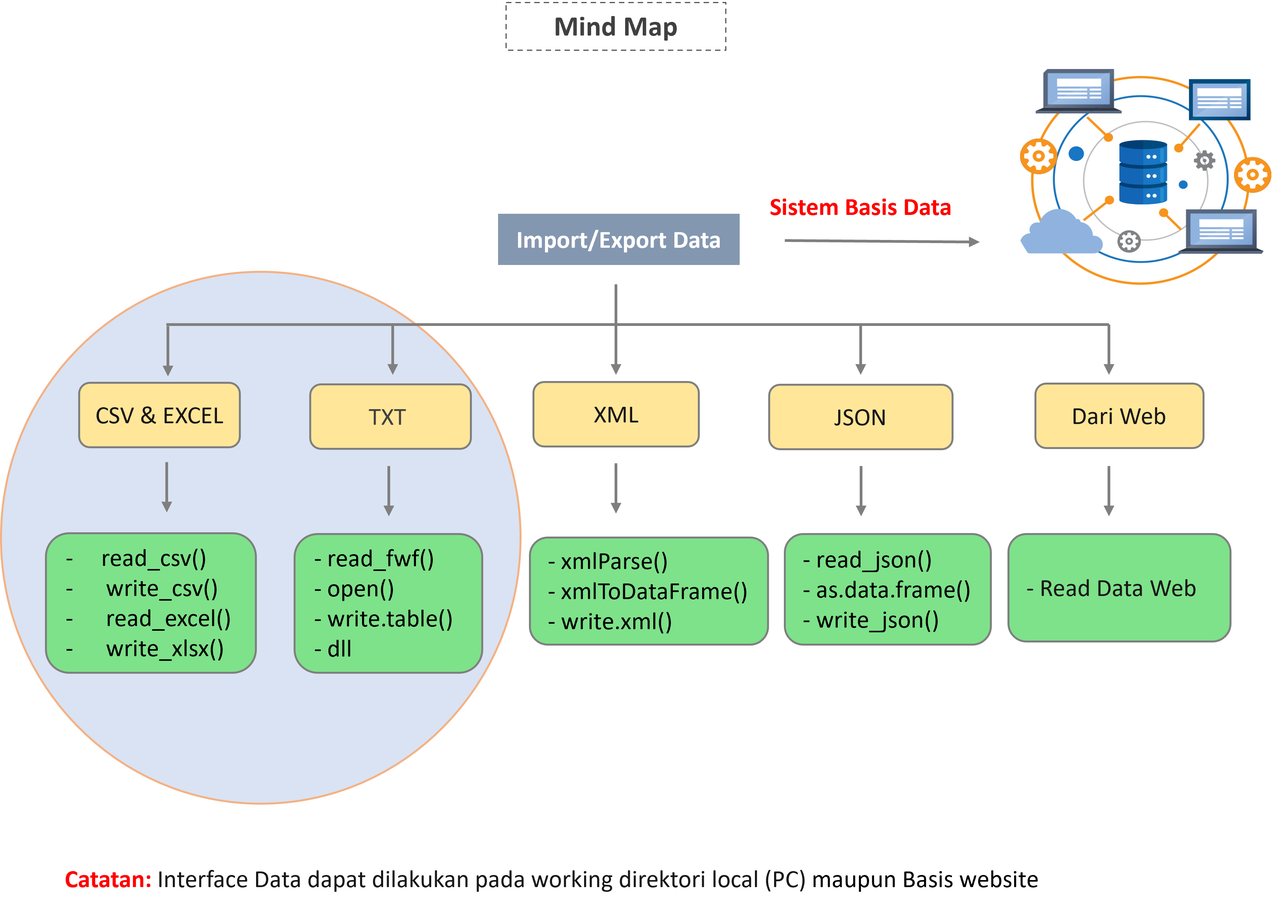
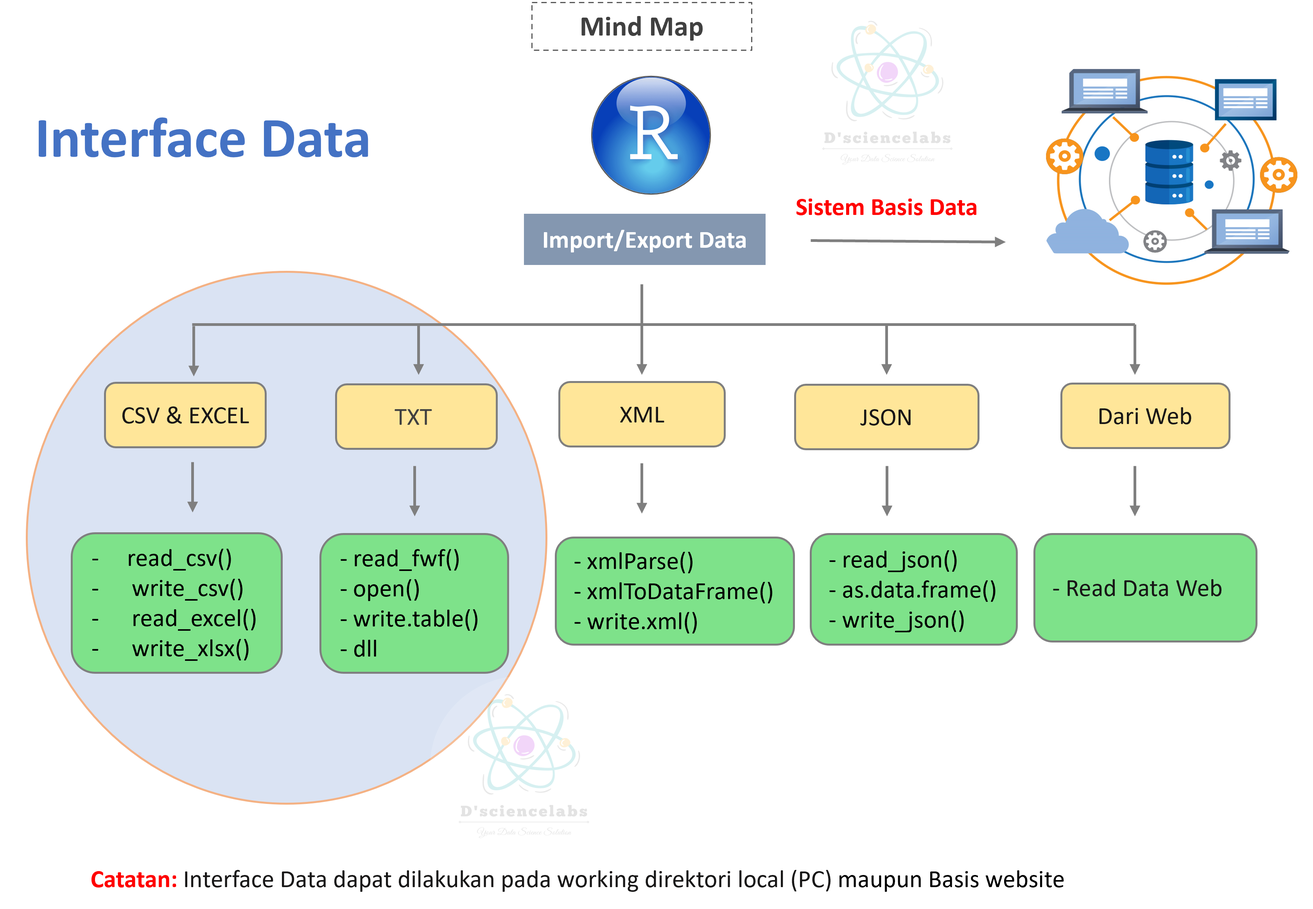
commit Gambar

diff --git a/_book/interface-data.html b/_book/interface-data.html
@@ -4,20 +4,20 @@
 
   <meta charset="utf-8" />
   <meta http-equiv="X-UA-Compatible" content="IE=edge" />
-  <title>Page not found | Algoritma dan Pemrograman R</title>
-  <meta name="description" content="Page not found | Algoritma dan Pemrograman R akan mencakup konsep-konsep dasar dalam pemrograman, pemahaman algoritma, serta pengenalan terhadap bahasa pemrograman R." />
+  <title>Bab 7 Interface Data | Algoritma dan Pemrograman R</title>
+  <meta name="description" content="Bab 7 Interface Data | Algoritma dan Pemrograman R akan mencakup konsep-konsep dasar dalam pemrograman, pemahaman algoritma, serta pengenalan terhadap bahasa pemrograman R." />
   <meta name="generator" content="bookdown 0.34 and GitBook 2.6.7" />
 
-  <meta property="og:title" content="Page not found | Algoritma dan Pemrograman R" />
+  <meta property="og:title" content="Bab 7 Interface Data | Algoritma dan Pemrograman R" />
   <meta property="og:type" content="book" />
   <meta property="og:image" content="/images/Cover_Algoritma_Permrograman.png" />
-  <meta property="og:description" content="Page not found | Algoritma dan Pemrograman R akan mencakup konsep-konsep dasar dalam pemrograman, pemahaman algoritma, serta pengenalan terhadap bahasa pemrograman R." />
+  <meta property="og:description" content="Bab 7 Interface Data | Algoritma dan Pemrograman R akan mencakup konsep-konsep dasar dalam pemrograman, pemahaman algoritma, serta pengenalan terhadap bahasa pemrograman R." />
   <meta name="github-repo" content="dsciencelabs/Algoritma_Pemrograman_R" />
 
   <meta name="twitter:card" content="summary" />
-  <meta name="twitter:title" content="Page not found | Algoritma dan Pemrograman R" />
+  <meta name="twitter:title" content="Bab 7 Interface Data | Algoritma dan Pemrograman R" />
   
-  <meta name="twitter:description" content="Page not found | Algoritma dan Pemrograman R akan mencakup konsep-konsep dasar dalam pemrograman, pemahaman algoritma, serta pengenalan terhadap bahasa pemrograman R." />
+  <meta name="twitter:description" content="Bab 7 Interface Data | Algoritma dan Pemrograman R akan mencakup konsep-konsep dasar dalam pemrograman, pemahaman algoritma, serta pengenalan terhadap bahasa pemrograman R." />
   <meta name="twitter:image" content="/images/Cover_Algoritma_Permrograman.png" />
 
 <meta name="author" content="Bakti Siregar, M.Sc" />
@@ -29,8 +29,8 @@
   <meta name="apple-mobile-web-app-status-bar-style" content="black" />
   
   
-
-
+<link rel="prev" href="struktur-kontrol.html"/>
+<link rel="next" href="referensi.html"/>
 <script src="libs/jquery-3.6.0/jquery-3.6.0.min.js"></script>
 <script src="https://cdn.jsdelivr.net/npm/fuse.js@6.4.6/dist/fuse.min.js"></script>
 <link href="libs/gitbook-2.6.7/css/style.css" rel="stylesheet" />
@@ -300,19 +300,158 @@ code span.wa { color: #60a0b0; font-weight: bold; font-style: italic; } /* Warni
           <div class="page-inner">
 
             <section class="normal" id="section-">
-<div id="page-not-found" class="section level1">
-<h1>Page not found</h1>
-<p>The page you requested cannot be found (perhaps it was moved or renamed).</p>
-<p>You may want to try searching to find the page's new location, or use
-the table of contents to find the page you are looking for.</p>
+<div id="interface-data" class="section level1 hasAnchor" number="7">
+<h1><span class="header-section-number">Bab 7</span> Interface Data<a href="interface-data.html#interface-data" class="anchor-section" aria-label="Anchor link to header"></a></h1>
+<p>Terhubung dengan data adalah hal paling mendasar dalam preses olah data (Data Science). Pada bagian ini akan dibahas bagaimana proses antarmuka data yang paling sederhana dengan menggunakan R. Secara garis besar R dapat membaca data dari file yang disimpan di dalam maupun luar direktorinya. Selain itu, sistem operasi R juga dapat menyimpan dan membaca data dalam berbagai format file seperti csv, excel, txt, rds, xml, json, dll.</p>
+<div class="figure" style="text-align: center"><span style="display:block;" id="fig:if-else"></span>
+<img src="images/Bab7/Interface_Data.png" alt="Pengumpulan Data" width="100%" />
+<p class="caption">
+Gambar 7.1: Pengumpulan Data
+</p>
+</div>
+<p><strong>Catatan:</strong> Data yang digunakan dalam pembelajaran ini, dapat download pada link berikut!</p>
+<ul>
+<li><a href="https://github.com/dsciencelabs/Algoritma_Pemrograman_R/blob/main/Data/Input/input1.csv">input1.csv</a></li>
+<li><a href="https://github.com/dsciencelabs/Algoritma_Pemrograman_R/blob/main/Data/Input/input2.csv">input2.csv</a></li>
+<li><a href="https://github.com/dsciencelabs/Algoritma_Pemrograman_R/blob/main/Data/Input/input3.xls">input3.xls</a></li>
+<li><a href="https://github.com/dsciencelabs/Algoritma_Pemrograman_R/blob/main/Data/Input/input4.xlsx">input4.xlsx</a></li>
+<li><a href="https://github.com/dsciencelabs/Algoritma_Pemrograman_R/blob/main/Data/Input/input5.txt">input5.txt</a></li>
+<li><a href="https://github.com/dsciencelabs/Algoritma_Pemrograman_R/blob/main/Data/Input/input6.Rdmpd">input6.Rdmpd</a></li>
+<li><a href="https://github.com/dsciencelabs/Algoritma_Pemrograman_R/blob/main/Data/Input/input7.rds">input7.rds</a></li>
+<li><a href="https://github.com/dsciencelabs/Algoritma_Pemrograman_R/blob/main/Data/Input/input8.ascii">input8.ascii</a></li>
+<li><a href="https://github.com/dsciencelabs/Algoritma_Pemrograman_R/blob/main/Data/Input/input9.xml">input9.xml</a></li>
+<li><a href="https://github.com/dsciencelabs/Algoritma_Pemrograman_R/blob/main/Data/Input/input10.json">input10.json</a></li>
+</ul>
+<div id="imporekspor-csv" class="section level2 hasAnchor" number="7.1">
+<h2><span class="header-section-number">7.1</span> Impor/Ekspor CSV<a href="interface-data.html#imporekspor-csv" class="anchor-section" aria-label="Anchor link to header"></a></h2>
+<p>Terdapat beberapa cara yang dapat dilakukan untuk impor/expor data dengan R. Berikut ini, diperlihatkan 3 cara yang paling sering digunakan dalam proses antarmuka data.</p>
+<div id="cara-1" class="section level3 hasAnchor" number="7.1.1">
+<h3><span class="header-section-number">7.1.1</span> Cara 1<a href="interface-data.html#cara-1" class="anchor-section" aria-label="Anchor link to header"></a></h3>
+<p>Pertama-tama pastikan direktori kerja anda dalam koneksi yang benar, periksalah dengan menggunakan fungsi <code>getwd()</code>. Kemudian, anda dapat mengatur direktori kerja baru menggunakan fungsi <code>setwd()</code>.</p>
+<div class="sourceCode" id="cb1"><pre class="sourceCode r"><code class="sourceCode r"><span id="cb1-1"><a href="interface-data.html#cb1-1" tabindex="-1"></a><span class="fu">print</span>(<span class="fu">getwd</span>())                                   <span class="co"># cetak direktori kerja R</span></span>
+<span id="cb1-2"><a href="interface-data.html#cb1-2" tabindex="-1"></a><span class="fu">getwd</span>()                                          <span class="co"># cetak direktori kerja R</span></span>
+<span id="cb1-3"><a href="interface-data.html#cb1-3" tabindex="-1"></a><span class="co">#setwd(&quot;C:/Users/Bakti/Desktop/&quot;)                # atur direktori (ini contoh)</span></span>
+<span id="cb1-4"><a href="interface-data.html#cb1-4" tabindex="-1"></a><span class="co">#setwd(&quot;C:\\Users\\Bakti\\Desktop\\&quot;)            # atau dengan cara ini</span></span></code></pre></div>
+<p>Selanjutnya, proses impor data CSV dengan menggunakan fungsi <code>read.csv()</code>.</p>
+<div class="sourceCode" id="cb2"><pre class="sourceCode r"><code class="sourceCode r"><span id="cb2-1"><a href="interface-data.html#cb2-1" tabindex="-1"></a><span class="fu">setwd</span>(<span class="fu">getwd</span>())                                    <span class="co"># setting direktori</span></span>
+<span id="cb2-2"><a href="interface-data.html#cb2-2" tabindex="-1"></a>df1 <span class="ot">&lt;-</span><span class="fu">read.csv</span>(<span class="st">&quot;Data/Input/input1.csv&quot;</span>,<span class="at">sep =</span> <span class="st">&quot;,&quot;</span>) <span class="co"># format pemisah koma </span></span>
+<span id="cb2-3"><a href="interface-data.html#cb2-3" tabindex="-1"></a>df2 <span class="ot">&lt;-</span><span class="fu">read.csv</span>(<span class="st">&quot;Data/Input/input2.csv&quot;</span>,<span class="at">sep =</span> <span class="st">&quot;;&quot;</span>) <span class="co"># format pemisah titik koma</span></span></code></pre></div>
+<p>Jika anda ingin melakukan expor data (simpan) ke direktori yang diinginkan maka dapat dilakukan dengan menggunakan fungsi <code>write.csv()</code> untuk format data dengan pemisah koma <code>(",")</code> dan fungsi <code>write.csv2()</code> untuk format data dengan pemisah semicolon <code>(";")</code>.</p>
+<div class="sourceCode" id="cb3"><pre class="sourceCode r"><code class="sourceCode r"><span id="cb3-1"><a href="interface-data.html#cb3-1" tabindex="-1"></a><span class="fu">write.csv</span>(df1,<span class="st">&quot;Data/Output/output1.csv&quot;</span>, <span class="at">row.names =</span> <span class="cn">FALSE</span>)  </span>
+<span id="cb3-2"><a href="interface-data.html#cb3-2" tabindex="-1"></a><span class="fu">write.csv2</span>(df2,<span class="st">&quot;Data/Output/output2.csv&quot;</span>, <span class="at">row.names =</span> <span class="cn">FALSE</span>)    </span></code></pre></div>
+</div>
+<div id="cara-2" class="section level3 hasAnchor" number="7.1.2">
+<h3><span class="header-section-number">7.1.2</span> Cara 2<a href="interface-data.html#cara-2" class="anchor-section" aria-label="Anchor link to header"></a></h3>
+<p>Bagi anda yang lebih menyukai koneksi direktori secara automatis, cara ini adalah pilihan yang yang lebih bijak dan praktis.</p>
+<div class="sourceCode" id="cb4"><pre class="sourceCode r"><code class="sourceCode r"><span id="cb4-1"><a href="interface-data.html#cb4-1" tabindex="-1"></a><span class="co"># setting direktori</span></span>
+<span id="cb4-2"><a href="interface-data.html#cb4-2" tabindex="-1"></a>(WD <span class="ot">&lt;-</span> <span class="fu">getwd</span>())</span>
+<span id="cb4-3"><a href="interface-data.html#cb4-3" tabindex="-1"></a><span class="cf">if</span> (<span class="sc">!</span><span class="fu">is.null</span>(WD)) <span class="fu">setwd</span>(WD)</span></code></pre></div>
+<div class="sourceCode" id="cb5"><pre class="sourceCode r"><code class="sourceCode r"><span id="cb5-1"><a href="interface-data.html#cb5-1" tabindex="-1"></a><span class="co"># impor data</span></span>
+<span id="cb5-2"><a href="interface-data.html#cb5-2" tabindex="-1"></a>df1 <span class="ot">&lt;-</span> <span class="fu">read.csv</span>(<span class="fu">file.path</span>(WD, <span class="st">&#39;Data/Input&#39;</span>, <span class="st">&#39;input1.csv&#39;</span>))</span>
+<span id="cb5-3"><a href="interface-data.html#cb5-3" tabindex="-1"></a>df2 <span class="ot">&lt;-</span> <span class="fu">read.csv</span>(<span class="fu">file.path</span>(WD, <span class="st">&#39;Data/Input&#39;</span>, <span class="st">&#39;input2.csv&#39;</span>))</span>
+<span id="cb5-4"><a href="interface-data.html#cb5-4" tabindex="-1"></a></span>
+<span id="cb5-5"><a href="interface-data.html#cb5-5" tabindex="-1"></a><span class="co"># ekspor data</span></span>
+<span id="cb5-6"><a href="interface-data.html#cb5-6" tabindex="-1"></a><span class="fu">write.csv</span>(df1, <span class="fu">file.path</span>(WD, <span class="st">&#39;Data/Output&#39;</span>, <span class="st">&#39;output1.csv&#39;</span>),<span class="at">row.names =</span> <span class="cn">FALSE</span>)</span>
+<span id="cb5-7"><a href="interface-data.html#cb5-7" tabindex="-1"></a><span class="fu">write.csv</span>(df2, <span class="fu">file.path</span>(WD, <span class="st">&#39;Data/Output&#39;</span>, <span class="st">&#39;output2.csv&#39;</span>),<span class="at">row.names =</span> <span class="cn">FALSE</span>)</span></code></pre></div>
+</div>
+<div id="cara-3" class="section level3 hasAnchor" number="7.1.3">
+<h3><span class="header-section-number">7.1.3</span> Cara 3<a href="interface-data.html#cara-3" class="anchor-section" aria-label="Anchor link to header"></a></h3>
+<p>Cara ini adalah langkah alternatif bagi anda yang lebih nyaman untuk memilih data yang tersimpan di komputer (PC) tanpa harus melakukan pengaturan direktori terlebih dahulu sebelum melakukan proses impor data.</p>
+<div class="sourceCode" id="cb6"><pre class="sourceCode r"><code class="sourceCode r"><span id="cb6-1"><a href="interface-data.html#cb6-1" tabindex="-1"></a>df3 <span class="ot">&lt;-</span> <span class="fu">read.csv</span>(<span class="fu">file.choose</span>())</span></code></pre></div>
+<p><strong>Catatan:</strong> Proses impor/eskpor data selanjutnya akan dilakukan dengan cara 1 satu saja.</p>
+</div>
+</div>
+<div id="imporekspor-excel" class="section level2 hasAnchor" number="7.2">
+<h2><span class="header-section-number">7.2</span> Impor/Ekspor Excel<a href="interface-data.html#imporekspor-excel" class="anchor-section" aria-label="Anchor link to header"></a></h2>
+<p>Microsoft Excel adalah program spreadsheet yang paling banyak digunakan yang menyimpan data dalam format <code>.xls</code> atau <code>.xlsx</code>. R dapat membaca langsung dari file-file ini menggunakan paket <code>readxl</code>.</p>
+<div class="sourceCode" id="cb7"><pre class="sourceCode r"><code class="sourceCode r"><span id="cb7-1"><a href="interface-data.html#cb7-1" tabindex="-1"></a><span class="co"># install.packages(c(&quot;readxl&quot;, &quot;writexl&quot;))       # install `readxl &amp; writexl` </span></span>
+<span id="cb7-2"><a href="interface-data.html#cb7-2" tabindex="-1"></a>pacman<span class="sc">::</span><span class="fu">p_load</span>(readxl, writexl)                  <span class="co"># load `readxl &amp; writexl`</span></span>
+<span id="cb7-3"><a href="interface-data.html#cb7-3" tabindex="-1"></a></span>
+<span id="cb7-4"><a href="interface-data.html#cb7-4" tabindex="-1"></a><span class="co"># impor data</span></span>
+<span id="cb7-5"><a href="interface-data.html#cb7-5" tabindex="-1"></a>df3<span class="ot">&lt;-</span><span class="fu">read_excel</span>(<span class="st">&quot;Data/Input/input3.xls&quot;</span>)         <span class="co"># impor data xls (97-2003)</span></span>
+<span id="cb7-6"><a href="interface-data.html#cb7-6" tabindex="-1"></a>df4<span class="ot">&lt;-</span><span class="fu">read_excel</span>(<span class="st">&quot;Data/Input/input4.xlsx&quot;</span>,<span class="at">sheet=</span><span class="dv">1</span>)<span class="co"># impor data xlsx (2003-up)</span></span>
+<span id="cb7-7"><a href="interface-data.html#cb7-7" tabindex="-1"></a></span>
+<span id="cb7-8"><a href="interface-data.html#cb7-8" tabindex="-1"></a><span class="co"># ekspor data</span></span>
+<span id="cb7-9"><a href="interface-data.html#cb7-9" tabindex="-1"></a><span class="fu">write_xlsx</span>(df3,<span class="st">&quot;Data/Output/output3.xls&quot;</span>) </span>
+<span id="cb7-10"><a href="interface-data.html#cb7-10" tabindex="-1"></a><span class="fu">write_xlsx</span>(df4,<span class="st">&quot;Data/Output/output4.xlsx&quot;</span>)</span></code></pre></div>
+</div>
+<div id="imporekspor-txt-and-rds" class="section level2 hasAnchor" number="7.3">
+<h2><span class="header-section-number">7.3</span> Impor/Ekspor TXT and RDS<a href="interface-data.html#imporekspor-txt-and-rds" class="anchor-section" aria-label="Anchor link to header"></a></h2>
+<p>Format data paling umum yang sering digunakan untuk impor/ekspor data adalah file CSV dan XLSX. Namun, ukuran file CSV atau XLSX cendrung lebih besar dibanding format yang lainya seperti TXT atau file biner R (RDS). Sehingga, ini akan membutuhkan tambahan waktu pada saat anda melakukan impor/ekspor data. Tips, yang sangat saya rekomendasikan dalam hal ini adalah mengimpor dan ekspor data tersebut dengan format TXT atau binary.</p>
+<div class="sourceCode" id="cb8"><pre class="sourceCode r"><code class="sourceCode r"><span id="cb8-1"><a href="interface-data.html#cb8-1" tabindex="-1"></a><span class="co"># impor data</span></span>
+<span id="cb8-2"><a href="interface-data.html#cb8-2" tabindex="-1"></a>df5 <span class="ot">&lt;-</span> <span class="fu">read.table</span>(<span class="st">&quot;Data/Input/input5.txt&quot;</span>)       <span class="co"># format TXT (notepad)</span></span>
+<span id="cb8-3"><a href="interface-data.html#cb8-3" tabindex="-1"></a>df6 <span class="ot">&lt;-</span> <span class="fu">source</span>(<span class="st">&quot;Data/Input/input6.Rdmpd&quot;</span>)         <span class="co"># format TXT (Rdmpd)</span></span>
+<span id="cb8-4"><a href="interface-data.html#cb8-4" tabindex="-1"></a>df7 <span class="ot">&lt;-</span> <span class="fu">readRDS</span>(<span class="st">&quot;Data/Input/input7.rds&quot;</span>)          <span class="co"># format binary RDS </span></span>
+<span id="cb8-5"><a href="interface-data.html#cb8-5" tabindex="-1"></a>df8 <span class="ot">&lt;-</span> <span class="fu">readRDS</span>(<span class="st">&quot;Data/Input/input8.ascii&quot;</span>)        <span class="co"># format binary ASCII </span></span>
+<span id="cb8-6"><a href="interface-data.html#cb8-6" tabindex="-1"></a></span>
+<span id="cb8-7"><a href="interface-data.html#cb8-7" tabindex="-1"></a><span class="co"># ekspor data</span></span>
+<span id="cb8-8"><a href="interface-data.html#cb8-8" tabindex="-1"></a><span class="fu">write.table</span>(df5,<span class="st">&quot;Data/Output/output5.txt&quot;</span>)                </span>
+<span id="cb8-9"><a href="interface-data.html#cb8-9" tabindex="-1"></a><span class="fu">dump</span>(<span class="st">&quot;df6&quot;</span>, <span class="st">&quot;Data/Output/output6.Rdmpd&quot;</span>)                    </span>
+<span id="cb8-10"><a href="interface-data.html#cb8-10" tabindex="-1"></a><span class="fu">saveRDS</span>(df7, <span class="st">&quot;Data/Output/output7.rds&quot;</span>)                      </span>
+<span id="cb8-11"><a href="interface-data.html#cb8-11" tabindex="-1"></a><span class="fu">saveRDS</span>(df8, <span class="st">&quot;Data/Output/output8.ascii&quot;</span>, <span class="at">ascii=</span><span class="cn">TRUE</span>)             </span></code></pre></div>
+<p><strong>Catatan:</strong> Format binary sangat lazim digunakan untuk meringkas file yang berukuran besar, terutama saat menggunakan sistem kontrol (API) seperti halnya <a href="https://git-scm.com/">Git</a>.</p>
+</div>
+<div id="imporekspor-xml" class="section level2 hasAnchor" number="7.4">
+<h2><span class="header-section-number">7.4</span> Impor/Ekspor XML<a href="interface-data.html#imporekspor-xml" class="anchor-section" aria-label="Anchor link to header"></a></h2>
+<p>XML adalah kumpulan berbagi format file dan data di World Wide Web, intranet, dan di tempat lain menggunakan teks ASCII standar. XML adalah singkatan dari eXtensible Markup Language. Untuk penjelasan lebih lengkap silahkan kunjungi</p>
+<iframe width="800" height="430" src="https://www.youtube.com/embed/KeLiQXqVgMI" frameborder="0" allowfullscreen>
+</iframe>
+<p>Sebenarnya XML sangat mirip dengan HTML, diman sintak-sintaknya berisi markup. Tetapi, perlu dicatat bahwa XML tidak sama dalam hal tag markup HTML yang menjelaskan laman struktur datanya terdapat dalam file tersebut. Silahkah perhatikan video penjelasan mengenai HTML;</p>
+<iframe width="800" height="430" src="https://www.youtube.com/embed/rs5hz_oZywI" frameborder="0" allowfullscreen>
+</iframe>
+<p>Selanjutnya, mari kita lakukan impor/ekspor data dengan format XML.</p>
+<div class="sourceCode" id="cb9"><pre class="sourceCode r"><code class="sourceCode r"><span id="cb9-1"><a href="interface-data.html#cb9-1" tabindex="-1"></a><span class="fu">library</span>(<span class="st">&quot;XML&quot;</span>)                                   <span class="co"># load paket XML </span></span>
+<span id="cb9-2"><a href="interface-data.html#cb9-2" tabindex="-1"></a><span class="fu">library</span>(<span class="st">&quot;kulife&quot;</span>)                                <span class="co"># load paket kulife</span></span>
+<span id="cb9-3"><a href="interface-data.html#cb9-3" tabindex="-1"></a><span class="fu">library</span>(<span class="st">&quot;methods&quot;</span>)                               <span class="co"># paket kondisional</span></span>
+<span id="cb9-4"><a href="interface-data.html#cb9-4" tabindex="-1"></a></span>
+<span id="cb9-5"><a href="interface-data.html#cb9-5" tabindex="-1"></a>df9 <span class="ot">&lt;-</span> <span class="fu">xmlParse</span>(<span class="st">&quot;Data/Input/input9.xml&quot;</span>)         <span class="co"># impor data XML</span></span>
+<span id="cb9-6"><a href="interface-data.html#cb9-6" tabindex="-1"></a>xml_df <span class="ot">&lt;-</span> <span class="fu">xmlToDataFrame</span>(df9)                    <span class="co"># konversi ke Dataframe</span></span>
+<span id="cb9-7"><a href="interface-data.html#cb9-7" tabindex="-1"></a><span class="fu">write.xml</span>(xml_df, <span class="st">&quot;Data/Output/output9.xml&quot;</span>)     <span class="co"># ekspor data XML</span></span></code></pre></div>
+</div>
+<div id="imporekspor-json" class="section level2 hasAnchor" number="7.5">
+<h2><span class="header-section-number">7.5</span> Impor/Ekspor JSON<a href="interface-data.html#imporekspor-json" class="anchor-section" aria-label="Anchor link to header"></a></h2>
+<p>File JSON menyimpan data sebagai teks dalam format yang dapat dibaca manusia. Json adalah singkatan dari JavaScript Object Notation. R dapat membaca file JSON menggunakan paket <code>jsonlite</code>. Selengkapnya tentang JSON</p>
+<iframe width="800" height="430" src="https://www.youtube.com/embed/2q5bAvNlBsc" frameborder="0" allowfullscreen>
+</iframe>
+<div class="sourceCode" id="cb10"><pre class="sourceCode r"><code class="sourceCode r"><span id="cb10-1"><a href="interface-data.html#cb10-1" tabindex="-1"></a><span class="fu">library</span>(<span class="st">&quot;jsonlite&quot;</span>)                              <span class="co"># load paket JSON</span></span>
+<span id="cb10-2"><a href="interface-data.html#cb10-2" tabindex="-1"></a></span>
+<span id="cb10-3"><a href="interface-data.html#cb10-3" tabindex="-1"></a>df10 <span class="ot">&lt;-</span><span class="fu">fromJSON</span>(<span class="st">&quot;Data/Input/input10.json&quot;</span>)       <span class="co"># impor data</span></span>
+<span id="cb10-4"><a href="interface-data.html#cb10-4" tabindex="-1"></a>json_df <span class="ot">&lt;-</span> <span class="fu">as.data.frame</span>(df10)                   <span class="co"># konversi ke Dataframe</span></span>
+<span id="cb10-5"><a href="interface-data.html#cb10-5" tabindex="-1"></a><span class="fu">write_json</span>(json_df, <span class="st">&quot;Data/Output/output10.json&quot;</span>) <span class="co"># ekspor data JSON</span></span></code></pre></div>
+</div>
+<div id="impor-data-dari-web" class="section level2 hasAnchor" number="7.6">
+<h2><span class="header-section-number">7.6</span> Impor Data dari Web<a href="interface-data.html#impor-data-dari-web" class="anchor-section" aria-label="Anchor link to header"></a></h2>
+<p>Ada banyak website menyediakan data untuk dikonsumsi oleh penggunanya. Dengan menggunakan program R, kita dapat mengekstrak data spesifik dari situs web tersebut secara terprogram. Di bagian ini, saya memberikan contoh cara mengimpor data dari repositori GitHub, tetapi Anda dapat melakukan hal yang sama ke situs web atau repositori lain.</p>
+<div id="csv" class="section level3 hasAnchor" number="7.6.1">
+<h3><span class="header-section-number">7.6.1</span> CSV:<a href="interface-data.html#csv" class="anchor-section" aria-label="Anchor link to header"></a></h3>
+<div class="sourceCode" id="cb11"><pre class="sourceCode r"><code class="sourceCode r"><span id="cb11-1"><a href="interface-data.html#cb11-1" tabindex="-1"></a>web_csv <span class="ot">&lt;-</span> <span class="fu">read.csv</span>(<span class="st">&quot;https://raw.githubusercontent.com/dsciencelabs/Algoritma_Pemrograman_R/main/Data/Input/input1.csv&quot;</span>)</span></code></pre></div>
+</div>
+<div id="xlsx" class="section level3 hasAnchor" number="7.6.2">
+<h3><span class="header-section-number">7.6.2</span> XLSX:<a href="interface-data.html#xlsx" class="anchor-section" aria-label="Anchor link to header"></a></h3>
+<div class="sourceCode" id="cb12"><pre class="sourceCode r"><code class="sourceCode r"><span id="cb12-1"><a href="interface-data.html#cb12-1" tabindex="-1"></a><span class="fu">library</span>(rio)                          <span class="co"># impor data dari github</span></span>
+<span id="cb12-2"><a href="interface-data.html#cb12-2" tabindex="-1"></a><span class="fu">install_formats</span>()                     <span class="co"># periksa auto paket yg disarankan</span></span>
+<span id="cb12-3"><a href="interface-data.html#cb12-3" tabindex="-1"></a>web_xlsx <span class="ot">&lt;-</span>rio<span class="sc">::</span><span class="fu">import</span>(<span class="st">&quot;https://github.com/dsciencelabs/Algoritma_Pemrograman_R/raw/main/Data/Input/input4.xlsx&quot;</span>)</span></code></pre></div>
+</div>
+</div>
+<div id="basis-data-r" class="section level2 hasAnchor" number="7.7">
+<h2><span class="header-section-number">7.7</span> Basis Data R<a href="interface-data.html#basis-data-r" class="anchor-section" aria-label="Anchor link to header"></a></h2>
+<p>Sistem basis data adalah data relasional yang disimpan dalam format yang dinormalisasi. Jadi, untuk melakukan komputasi statistik kita akan membutuhkan query SQL yang sangat canggih dan kompleks. Tetapi R dapat terhubung dengan mudah ke banyak database relasional seperti MySql, Oracle, SQL Server, dll. Selanjutnya biasanya, kita akan mengubah basis data tersebut menjadi bingkai data (data frame). Setelah data tersedia di lingkungan R, kemudian dimanipulasi atau dilakukan analisis lebih lanjut.</p>
+<p><strong>Catatan:</strong> Kita akan mempelajari bagian ini di bagian khusus yang disebut “Sistem Basis Data dengan R” semester berikutnya.</p>
+</div>
+<div id="menambang-data-web" class="section level2 hasAnchor" number="7.8">
+<h2><span class="header-section-number">7.8</span> Menambang Data Web<a href="interface-data.html#menambang-data-web" class="anchor-section" aria-label="Anchor link to header"></a></h2>
+<p>Pengikisan data dari web (Webscraping Data) adalah proses menggunakan bot untuk mengekstrak konten dan data dari situs web. Tidak seperti screen scraping, yang hanya menyalin piksel yang ditampilkan di layar, web scraping mengekstrak kode HTML yang mendasarinya yang pada dasarnya disimpan dalam database. Pengikisan data ini dapat mereplikasi seluruh konten dari berbagai situs web yang target.</p>
+<p><strong>Catatan:</strong> Kita akan mempelajari bagian ini di bagian khusus yang disebut “Ilmu Data Terapan”.</p>
+
+</div>
 </div>
             </section>
 
           </div>
         </div>
       </div>
-
-
+<a href="struktur-kontrol.html" class="navigation navigation-prev " aria-label="Previous page"><i class="fa fa-angle-left"></i></a>
+<a href="referensi.html" class="navigation navigation-next " aria-label="Next page"><i class="fa fa-angle-right"></i></a>
     </div>
   </div>
 <script src="libs/gitbook-2.6.7/js/app.min.js"></script>
